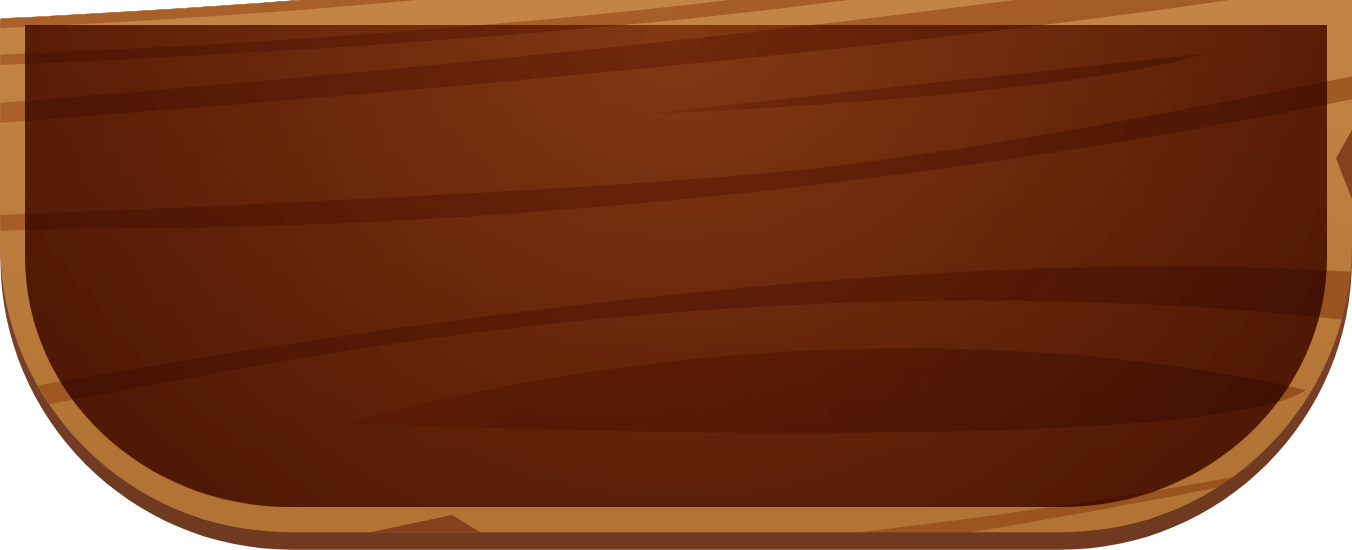
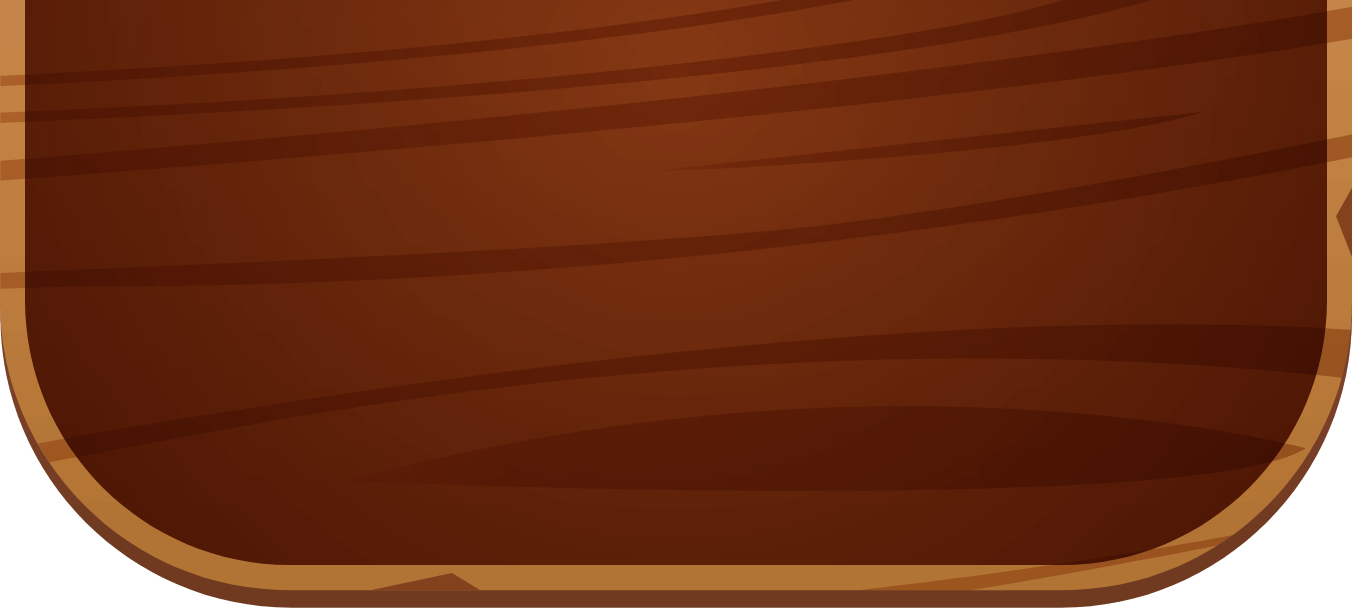
sdf

diff --git a/src/screens/main/package-game/StartPackageGame.js b/src/screens/main/package-game/StartPackageGame.js
@@ -10,7 +10,7 @@ import useAppTheme from '../../../hooks/theme/useAppTheme';
 import Font from '../../../utils/Font';
 import TextSkia from '../../../components/text-components/TextSkia';
 import ScreenLoading from '../../../components/screen-loading/ScreenLoading';
-import { IS_TABLET_CONDITION, STATUS_BAR_HEIGHT } from '../../../utils/constants/constants';
+import { IS_TABLET_CONDITION } from '../../../utils/constants/constants';
 import GeneralHeader from '../../../components/header/GeneralHeader';
 import Icon from '../../../utils/Icon';
 import { getCurrentLanguageLastStageAndLastSeason } from '../../../realm/repositories/user/user-stage-game-progress.repository';
@@ -19,7 +19,7 @@ import { BSON } from 'realm';
 import { useIsFocused } from '@react-navigation/native';
 import BottomDrawerGridHelper from '../../../components/bottom-drawer-grid/BottomDrawerGridHelper';
 import BottomDrawerGrid from '../../../components/bottom-drawer-grid/BottomDrawerGrid';
-import PackageGameSeasonCard, { PACKAGE_GAME_SEASON_CARD_HEIGHT, PACKAGE_GAME_SEASON_CARD_MARGIN } from '../../../components/card/package-game-card/PackageGameSeasonCard';
+import PackageGameSeasonCard, { PACKAGE_GAME_SEASON_CARD_HEIGHT, PACKAGE_GAME_SEASON_CARD_MARGIN, HEADER_HEIGHT } from '../../../components/card/package-game-card/PackageGameSeasonCard';
 import { PackageSeason } from '../../../realm/schemas/package-game/PackageSeasonSchema';
 import { Package } from '../../../realm/schemas/package-game/PackageSchema';
 import { UserPackage } from '../../../realm/schemas/user/UserPackageSchema';
@@ -172,60 +172,65 @@ function StartPackageGame(props){
     )
 
     return(
-        <View style={{flex:1, backgroundColor:colors.background.a1, paddingTop:STATUS_BAR_HEIGHT}}>
-            <StatusBar translucent={true} hidden={true} />
-            <PackageHeader
-                packageIcon={packageInfo?.icon_image}
-            />
-            <View style={styles.container}>
-                <FlatList
-                    ref={flatListRef}
-                    key={_id}
-                    showsVerticalScrollIndicator={false}
-                    keyExtractor={keyExtractor}
-                    initialNumToRender={3}
-                    windowSize={5}
-                    initialScrollIndex={
-                        seasons?.length > 0
-                        ? Math.min(Math.max(0, lastSeasonNumber - 1), seasons.length - 1)
-                        : 0
-                    }
-                    ListHeaderComponent={ListHeaderComponent}
-                    maxToRenderPerBatch={3}
-                    contentContainerStyle={{alignItems:'center', rowGap:rowGap, paddingBottom:FLATLIST_PADDING_VERTICAL}}
-                    renderItem={memoizedValue}
-                    data={seasons}
-                    numColumns={numColumns}
-                    onEndReachedThreshold={0.5}
-                    removeClippedSubviews={Platform.OS == 'ios' ? false : true}
-                    style={{width:width, paddingHorizontal:PACKAGE_GAME_SEASON_CARD_MARGIN}}
-                    getItemLayout={(data, index) => {
-                        const row = Math.floor(index / numColumns); // هر ردیف
-                        return {
-                            length: itemHeight,
-                            offset: FLATLIST_PADDING_VERTICAL + row * snapInterval,
-                            index,
-                        };
-                    }}
-                    snapToInterval={snapInterval} // ارتفاع هر ردیف
-                    snapToAlignment="start"       // آیتم از بالا چفت شود
-                    decelerationRate="fast"       // سرعت کاهش سریع برای اسنپ بهتر
-                    disableIntervalMomentum={true} // محدود کردن اسکرول به فقط یک interval در هر سوایپ
-                    bounces={true}                // فنری بودن مانند iOS
-                    viewabilityConfig={viewabilityConfig}
-                    onViewableItemsChanged={onViewableItemsChanged}
-                    ListEmptyComponent={ListEmptyComponent}
-                    extraData={{ activeIndexes, lastSeasonNumber }}
-                    onScrollToIndexFailed={(info) => {
-                        flatListRef.current?.scrollToIndex({
-                            index: Math.max(0, seasons.length - 1),
-                            animated: false,
-                            viewOffset: FLATLIST_PADDING_VERTICAL,
-                        });
-                    }}
+        <View style={{flex:1}}>
+            <View style={{flex:1, backgroundColor:colors.background.a1}}>
+                <StatusBar translucent={true} hidden={true} />
+                <View style={styles.container}>
+                    <FlatList
+                        ref={flatListRef}
+                        key={_id}
+                        showsVerticalScrollIndicator={false}
+                        keyExtractor={keyExtractor}
+                        initialNumToRender={3}
+                        windowSize={5}
+                        initialScrollIndex={
+                            seasons?.length > 0
+                            ? Math.min(Math.max(0, lastSeasonNumber - 1), seasons.length - 1)
+                            : 0
+                        }
+                        ListHeaderComponent={ListHeaderComponent}
+                        maxToRenderPerBatch={3}
+                        contentContainerStyle={{alignItems:'center', rowGap:rowGap, paddingBottom:FLATLIST_PADDING_VERTICAL, paddingTop:HEADER_HEIGHT+15}}
+                        renderItem={memoizedValue}
+                        data={seasons}
+                        numColumns={numColumns}
+                        onEndReachedThreshold={0.5}
+                        removeClippedSubviews={Platform.OS == 'ios' ? false : true}
+                        style={{width:width, paddingHorizontal:PACKAGE_GAME_SEASON_CARD_MARGIN}}
+                        getItemLayout={(data, index) => {
+                            const row = Math.floor(index / numColumns); // هر ردیف
+                            return {
+                                length: itemHeight,
+                                offset: FLATLIST_PADDING_VERTICAL + row * snapInterval,
+                                index,
+                            };
+                        }}
+                        snapToInterval={snapInterval} // ارتفاع هر ردیف
+                        snapToAlignment="start"       // آیتم از بالا چفت شود
+                        decelerationRate="fast"       // سرعت کاهش سریع برای اسنپ بهتر
+                        disableIntervalMomentum={true} // محدود کردن اسکرول به فقط یک interval در هر سوایپ
+                        bounces={true}                // فنری بودن مانند iOS
+                        viewabilityConfig={viewabilityConfig}
+                        onViewableItemsChanged={onViewableItemsChanged}
+                        ListEmptyComponent={ListEmptyComponent}
+                        extraData={{ activeIndexes, lastSeasonNumber }}
+                        onScrollToIndexFailed={(info) => {
+                            flatListRef.current?.scrollToIndex({
+                                index: Math.max(0, seasons.length - 1),
+                                animated: false,
+                                viewOffset: FLATLIST_PADDING_VERTICAL,
+                            });
+                        }}
+                    />
+                </View>
+                <BottomDrawerGrid ref = {Ref => {BottomDrawerGridHelper.setRef(Ref)}}/>
+            </View>
+            <View style={{position:'absolute', top:0}}>
+                <PackageHeader
+                    packageIcon={packageInfo?.icon_image}
+                    title={packageInfo?.title}
                 />
             </View>
-            <BottomDrawerGrid ref = {Ref => {BottomDrawerGridHelper.setRef(Ref)}}/>
         </View>
     )
 }

diff --git a/src/components/header/PackageHeader.js b/src/components/header/PackageHeader.js
@@ -7,63 +7,82 @@ import NumberCoins from "../coin/NumberCoins";
 import Back from "../icon/Back";
 import Setting from "../icon/Setting";
 import ImageComponent from "../image-components/ImageComponent";
+import SimpleBorderText from "../text-components/SimpleBorderText";
 
-const {width} = Dimensions.get('window');
+const {width} = Dimensions.get('screen');
 function PackageHeader({height=65, paddingHorizontal=10, back=true, coin=true, title, setting=true, packageIcon}){
     const colors = useAppTheme();
     return(
-        <View style={{height:height, width:width, flexDirection:'row', alignItems:'center', paddingHorizontal:paddingHorizontal, justifyContent:'space-between', zIndex:1000}}>
-            <View style={{height:"100%", flexDirection:'row', alignItems:'center', justifyContent:'flex-start', gap:10}}>
-                {
-                    back&&
-                    <Back/>
-                    
-                }
-                {
-                    packageIcon&&
-                    <View>
-                        <ImageBackground
-                            source={require("../../assets/image/free_button.png")}
-                            style={{ width: 40, height: 40, justifyContent: "center", alignItems: "center", paddingStart:1, paddingBottom:1}}
-                            imageStyle={{ resizeMode: "stretch" }}
-                            resizeMode="stretch"
-                        >
-                            <ImageComponent
-                                uri={packageIcon}
-                                width={33}
-                                height={33}
-                                resizeMode="cover"
-                                borderRadius={15}
-                            />
-                        </ImageBackground>
-                        <ImageBackground
-                            source={require("../../assets/image/frame_badge.png")}
-                            style={{ width: 30, height: 18, justifyContent: "center", alignItems: "center", position:'absolute', top:-5, alignSelf:'center' }}
-                            imageStyle={{ resizeMode: "stretch" }}
-                            resizeMode="stretch"
-                        >
-                            <Text numberOfLines={1} style={{color:"#FFF", fontFamily:Font.medium, fontSize:6}}>{"اطلاعات"}</Text>
-                        </ImageBackground>
-                    </View>
-                }
+        <ImageBackground
+            source={require("../../assets/image/header_frame.png")}
+            style={{ width: width, height: width*0.45, justifyContent: "space-between", alignItems: "center", paddingBottom:25}}
+            imageStyle={{ resizeMode: "stretch" }}
+            resizeMode="stretch"
+        >
+            <View style={{height:height, width:width, flexDirection:'row', alignItems:'center', paddingHorizontal:paddingHorizontal, justifyContent:'space-between', zIndex:1000}}>
+                <View style={{height:"100%", flexDirection:'row', alignItems:'center', justifyContent:'flex-start', gap:10}}>
+                    {
+                        back&&
+                        <Back/>
+                        
+                    }
+                    {
+                        packageIcon&&
+                        <View>
+                            <ImageBackground
+                                source={require("../../assets/image/free_button.png")}
+                                style={{ width: 40, height: 40, justifyContent: "center", alignItems: "center", paddingStart:1, paddingBottom:1}}
+                                imageStyle={{ resizeMode: "stretch" }}
+                                resizeMode="stretch"
+                            >
+                                <ImageComponent
+                                    uri={packageIcon}
+                                    width={33}
+                                    height={33}
+                                    resizeMode="cover"
+                                    borderRadius={15}
+                                />
+                            </ImageBackground>
+                            <ImageBackground
+                                source={require("../../assets/image/frame_badge.png")}
+                                style={{ width: 30, height: 18, justifyContent: "center", alignItems: "center", position:'absolute', top:-5, alignSelf:'center' }}
+                                imageStyle={{ resizeMode: "stretch" }}
+                                resizeMode="stretch"
+                            >
+                                <Text numberOfLines={1} style={{color:"#FFF", fontFamily:Font.medium, fontSize:6}}>{"اطلاعات"}</Text>
+                            </ImageBackground>
+                        </View>
+                    }
+                </View>
+                <View style={{height:"100%", flexDirection:'row', alignItems:'center', gap:7}}>
+                    {
+                        coin&&
+                        <NumberCoins/>
+                    }
+                    {
+                        setting&&
+                        <Setting/>
+                    }
+                </View>
+            </View>
+            <ImageBackground
+                source={require("../../assets/image/header_title_frame.png")}
+                style={{ width: width*0.8, height: width*0.8*0.233, alignItems:'center', justifyContent:'center', paddingBottom:10}}
+                imageStyle={{ resizeMode: "stretch" }}
+                resizeMode="stretch"
+            >
                 {
                     title&&
-                    <View style={{flexDirection:'column', alignItems:'flex-start', justifyContent:'center'}}>
-                        <Text numberOfLines={1} style={{color:colors.header.content_1, maxWidth:width-100, fontFamily:Font.medium, fontSize:14}}>{title}</Text>
-                    </View>
+                    <SimpleBorderText
+                        text={title}
+                        width={width*0.8 - 40}
+                        height={18*1.6}
+                        fontSize={18}
+                        borderWidth={2}
+                    />
                 }
-            </View>
-            <View style={{height:"100%", flexDirection:'row', alignItems:'center', gap:7}}>
-                {
-                    coin&&
-                    <NumberCoins/>
-                }
-                {
-                    setting&&
-                    <Setting/>
-                }
-            </View>
-        </View>
+            </ImageBackground>
+        </ImageBackground>
     )
 }
 

diff --git a/src/components/card/package-game-card/PackageGameSeasonCard.js b/src/components/card/package-game-card/PackageGameSeasonCard.js
@@ -21,9 +21,9 @@ import LocalImageComponent from '../../image-components/LocalImageComponent';
 import WoodProgressBar from '../../WoodProgressBar';
 
 const { width, height } = Dimensions.get('screen');
-
+export const HEADER_HEIGHT = width*0.45
 export const PACKAGE_GAME_SEASON_CARD_MARGIN = 10;
-export const PACKAGE_GAME_SEASON_CARD_HEIGHT = height - 140;
+export const PACKAGE_GAME_SEASON_CARD_HEIGHT = height - (HEADER_HEIGHT + 60);
 const CONTENT_HEIGHT = PACKAGE_GAME_SEASON_CARD_HEIGHT - 25
 const STAGE_GAME_CARD_WIDTH = IS_TABLET_CONDITION
   ? (width - (PACKAGE_GAME_SEASON_CARD_MARGIN * 3)) / 2
